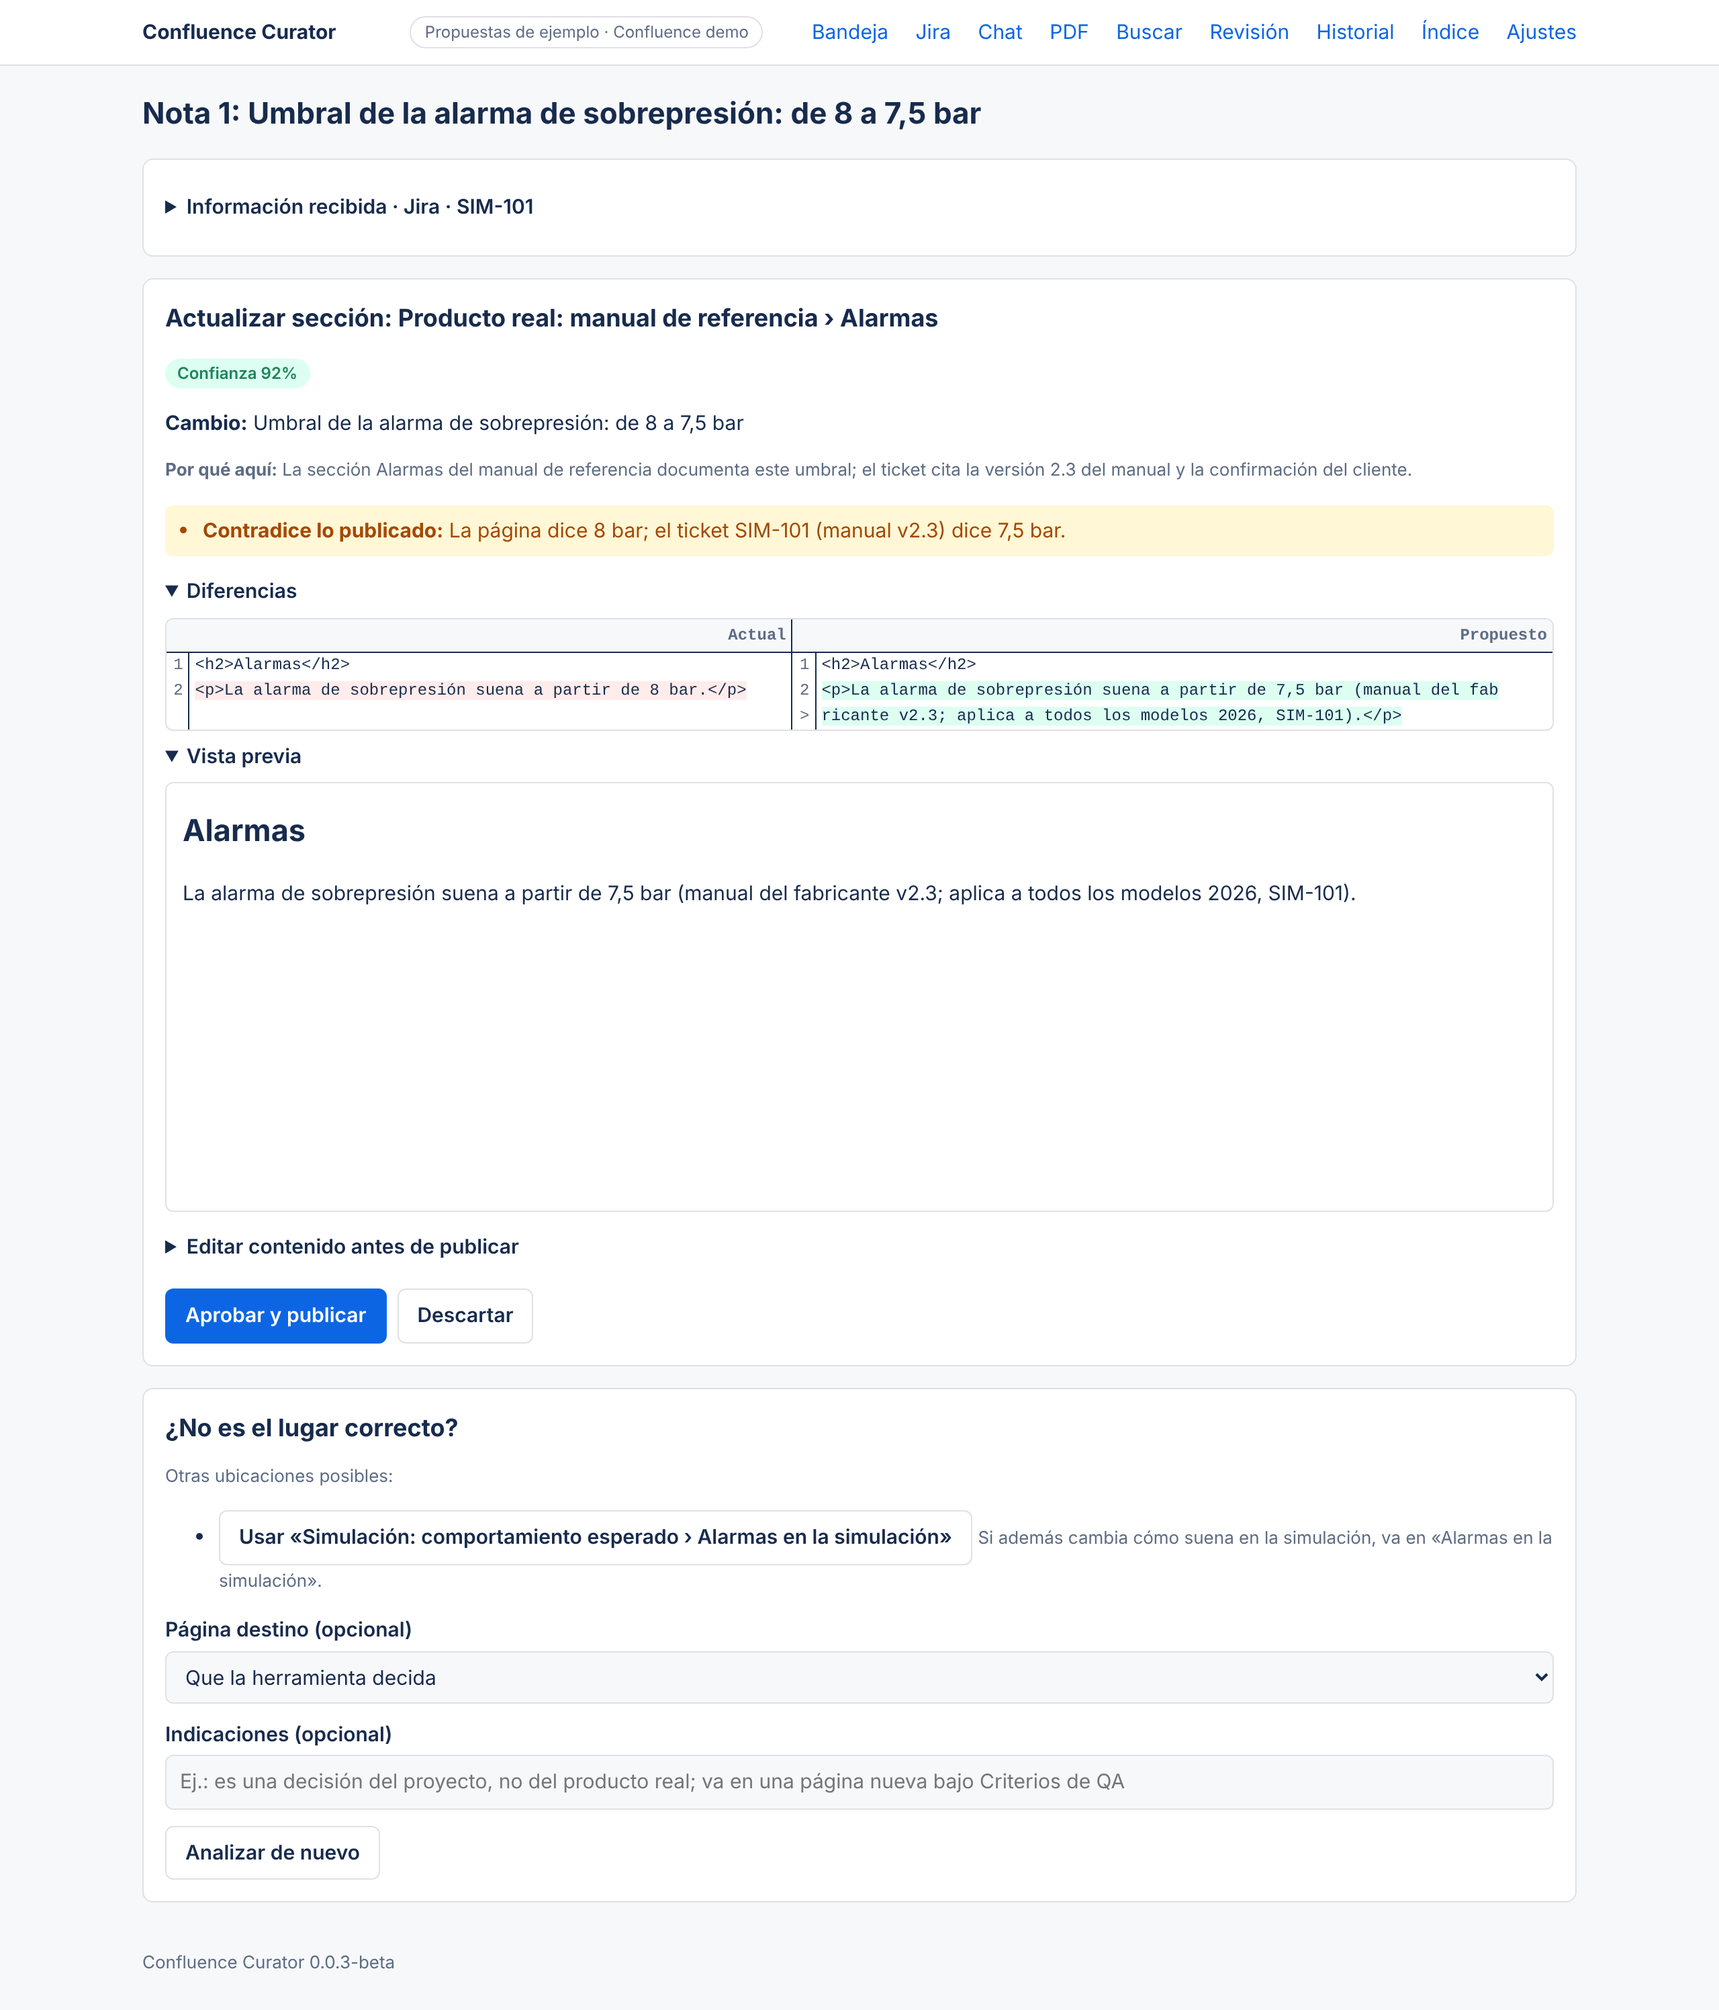
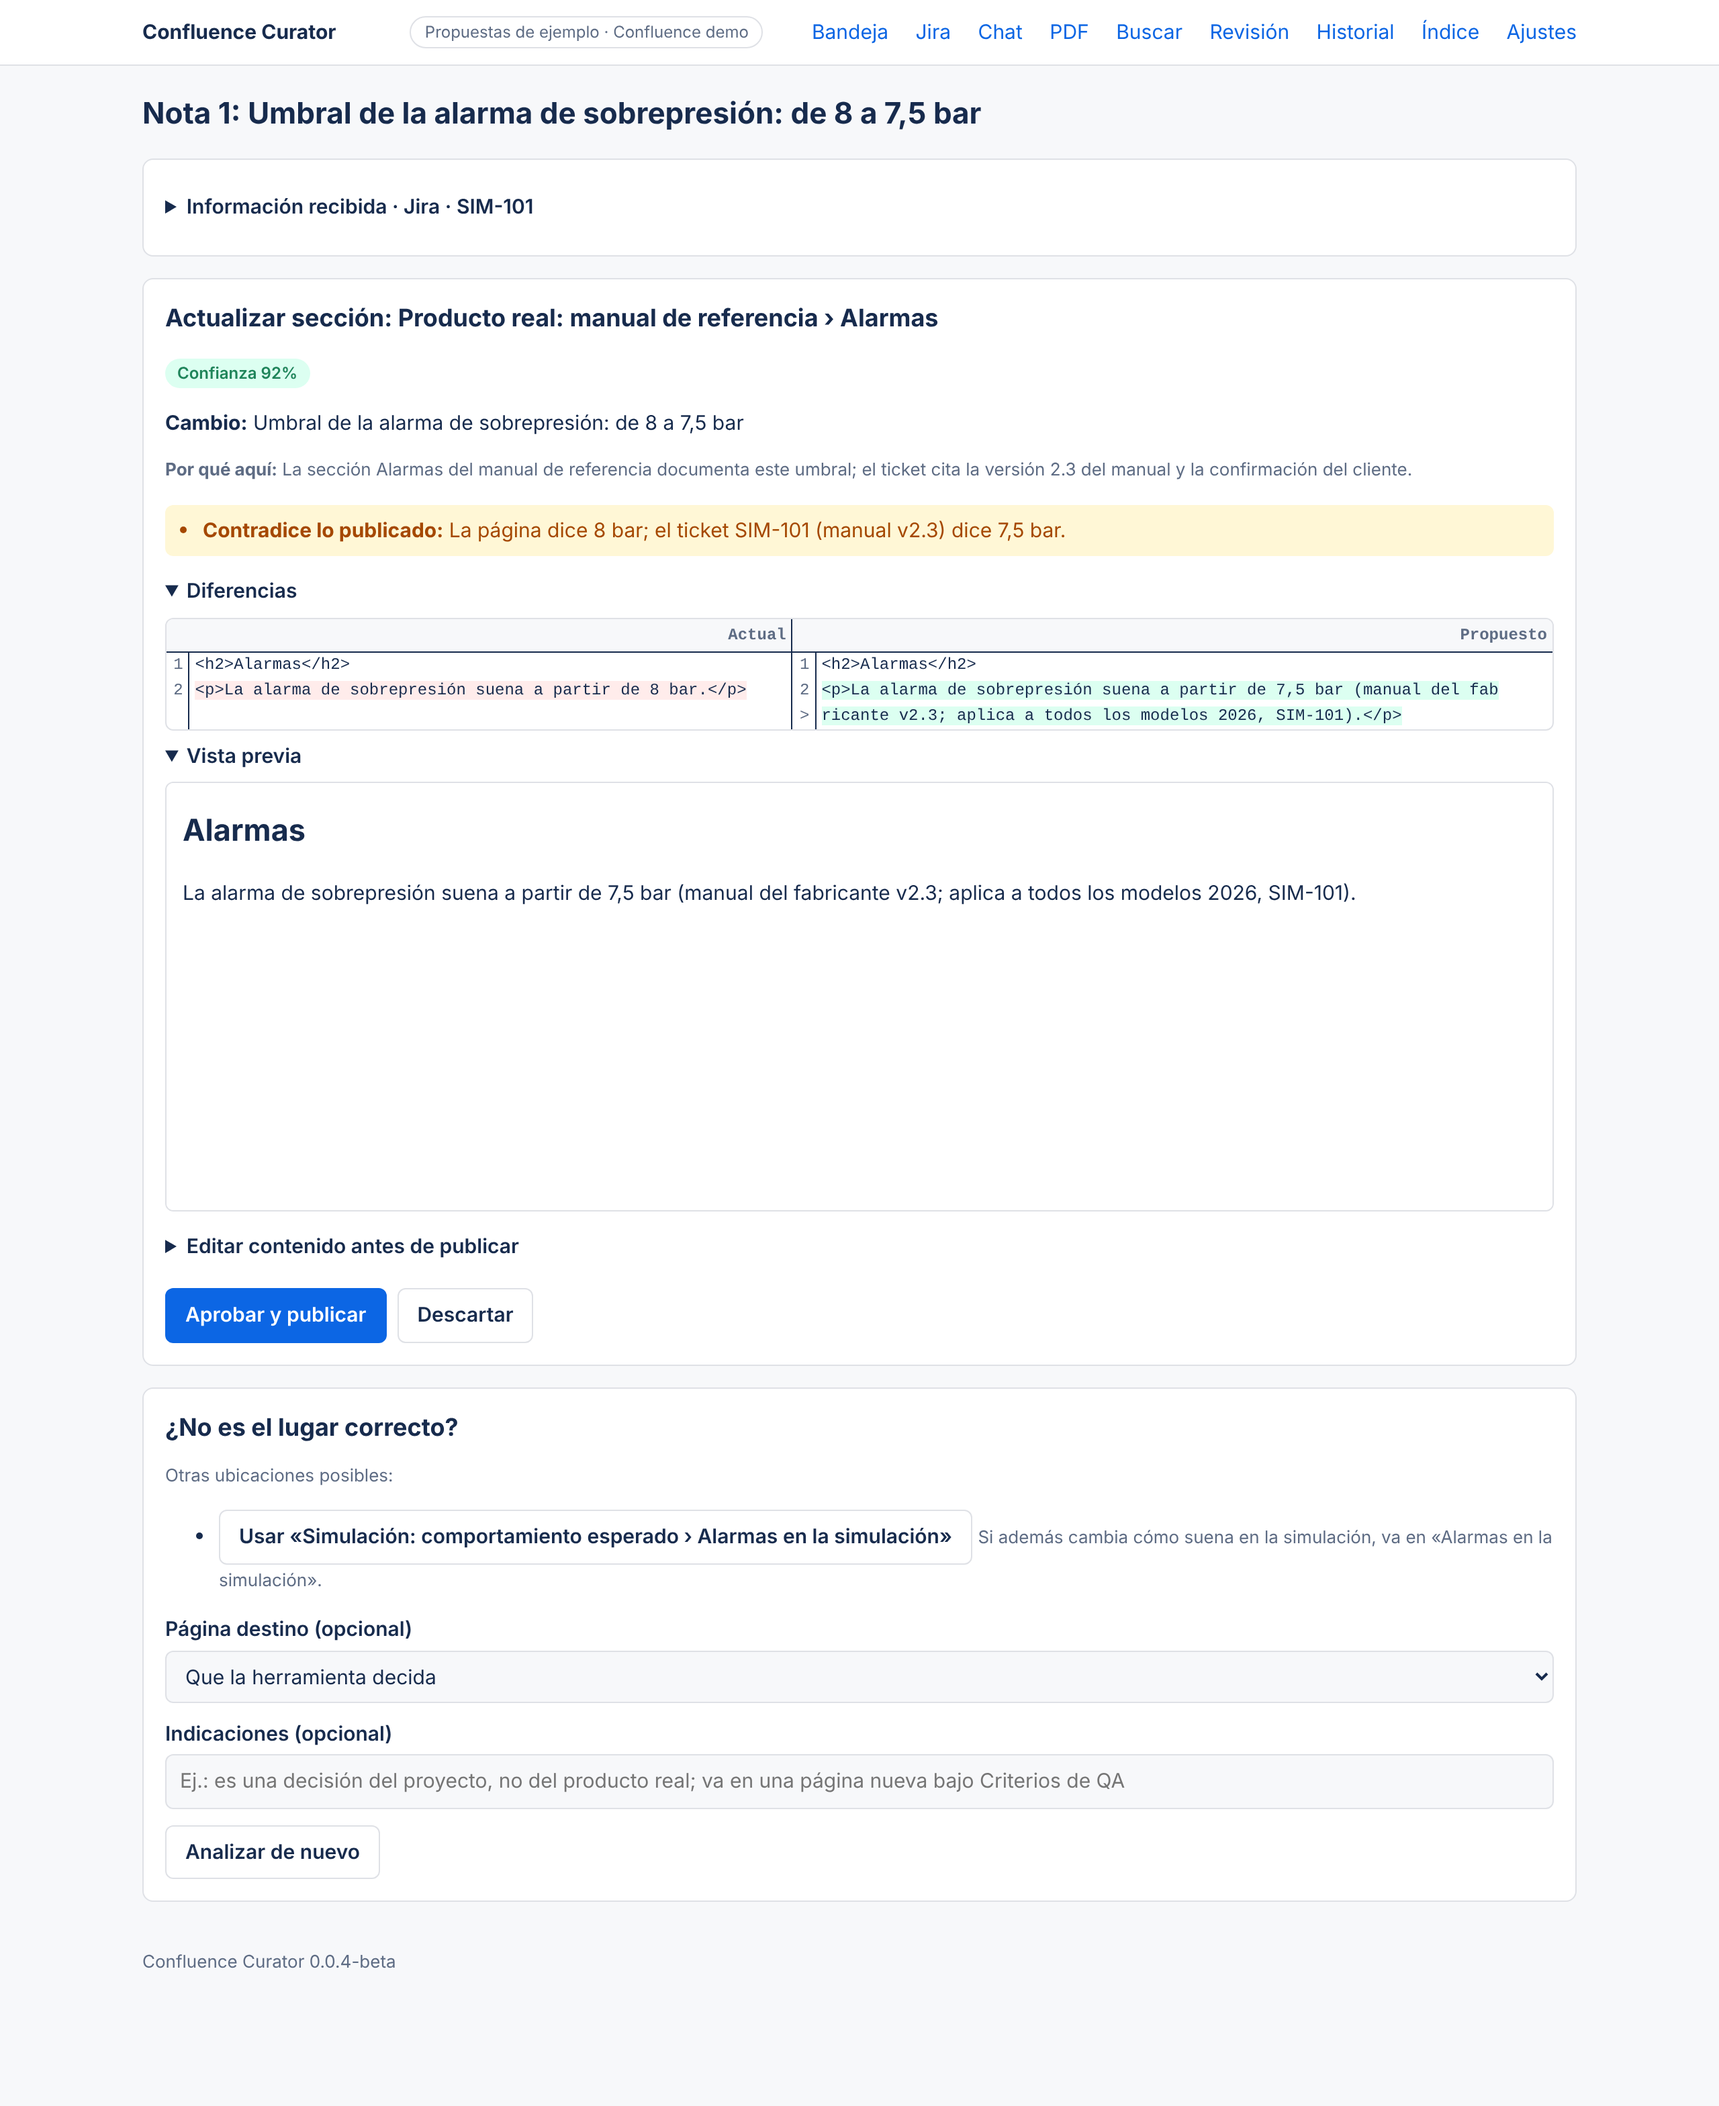
Versión 0.0.4-beta
Bloque Actividad y botón Detener, importación desde el chat (Slack).
CHANGELOG, aviso de beta, capturas con la versión nueva y captura del
bloque Actividad; las capturas de página completa ocultan el bloque.

Claude-Session: https://claude.ai/code/session_01NsqyUFp7jb4bHVYE1DwxWd

diff --git a/curator/__init__.py b/curator/__init__.py
@@ -1,3 +1,3 @@
 """Confluence Curator: sugiere dónde documentar información nueva y actualiza Confluence con tu aprobación."""
 
-__version__ = "0.0.3-beta"
+__version__ = "0.0.4-beta"

diff --git a/README.md b/README.md
@@ -1,6 +1,6 @@
 # Confluence Curator
 
-> **Beta 0.0.3.** La conexión con Confluence Cloud y Jira Cloud reales ya se probó; el resto del flujo (propuestas y publicación) se probó con un Confluence simulado. Los lanzadores funcionan en Mac y Linux; el de Windows todavía no se probó. Haz las primeras publicaciones en páginas sin importancia.
+> **Beta 0.0.4.** La conexión con Confluence Cloud y Jira Cloud reales ya se probó; el resto del flujo (propuestas y publicación) y la conexión con Slack se probaron con servicios simulados. Los lanzadores funcionan en Mac y Linux; el de Windows todavía no se probó. Haz las primeras publicaciones en páginas sin importancia.
 
 Herramienta para consolidar en Confluence la información del proyecto que hoy está dispersa en chats, tickets de Jira y manuales del producto.
 
@@ -32,6 +32,10 @@ Tomadas en el modo demo, con Confluence y Jira simulados y propuestas de ejemplo
 **Revisión:** una contradicción entre dos páginas y una página que menciona un ticket que cambió después.
 
 ![Revisión de la documentación con hallazgos](docs/screenshots/revision.png)
+
+**Actividad:** qué está haciendo la herramienta, la cola de análisis y el botón Detener.
+
+<img src="docs/screenshots/actividad.png" alt="Bloque Actividad analizando una nota con dos en cola" width="420">
 
 **Chat:** conversaciones de un canal de Slack agrupadas en hilos y mensajes cercanos, listas para importar.
 

diff --git a/CHANGELOG.md b/CHANGELOG.md
@@ -1,13 +1,13 @@
 # Cambios
 
-## Sin publicar
+## 0.0.4-beta (2026-10-30)
 
 - Bloque **Actividad** en todas las páginas: muestra en vivo qué hace la herramienta, la cola de análisis y los últimos resultados, se abre solo cuando algo empieza y actualiza la página cuando termina algo suyo.
 - Botón **Detener**: cancela lo que está en curso y la cola de análisis (descarta la respuesta de la IA si llega después) y pausa las revisiones automáticas hasta **Reanudar**.
 - Las importaciones (Jira, chat, PDF), la sincronización y *Revisar ahora* de Jira pasan a segundo plano; después de importar se vuelve a la bandeja y el avance se sigue en Actividad.
 - Un análisis anterior se reemplaza solo cuando el nuevo termina bien: si se detiene o falla, las propuestas anteriores se conservan.
-
 - Importación desde el chat: página **Chat** que agrupa los mensajes de un canal en conversaciones (hilos y mensajes cercanos), indica cuáles ya se importaron o siguieron después, y crea una nota por conversación con autores, horas, enlace e imágenes. Primer conector: Slack, con el token de una app interna; se configura y se prueba en el asistente (paso «Chat»).
+- La bandeja ya no se recarga sola mientras se escribe en ella.
 
 ## 0.0.3-beta (2026-10-28)
 
